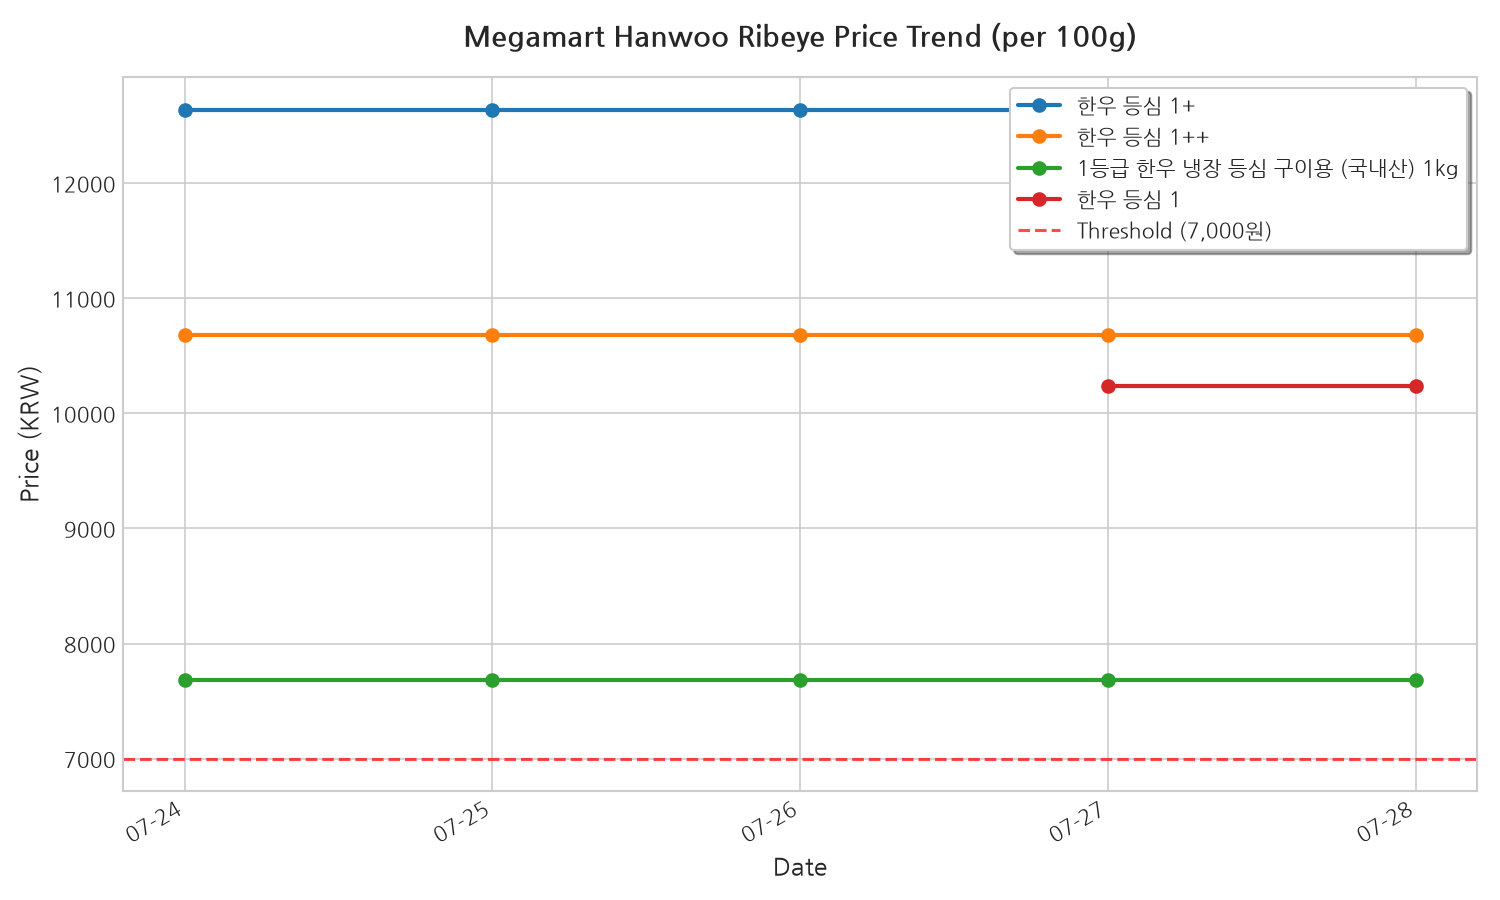
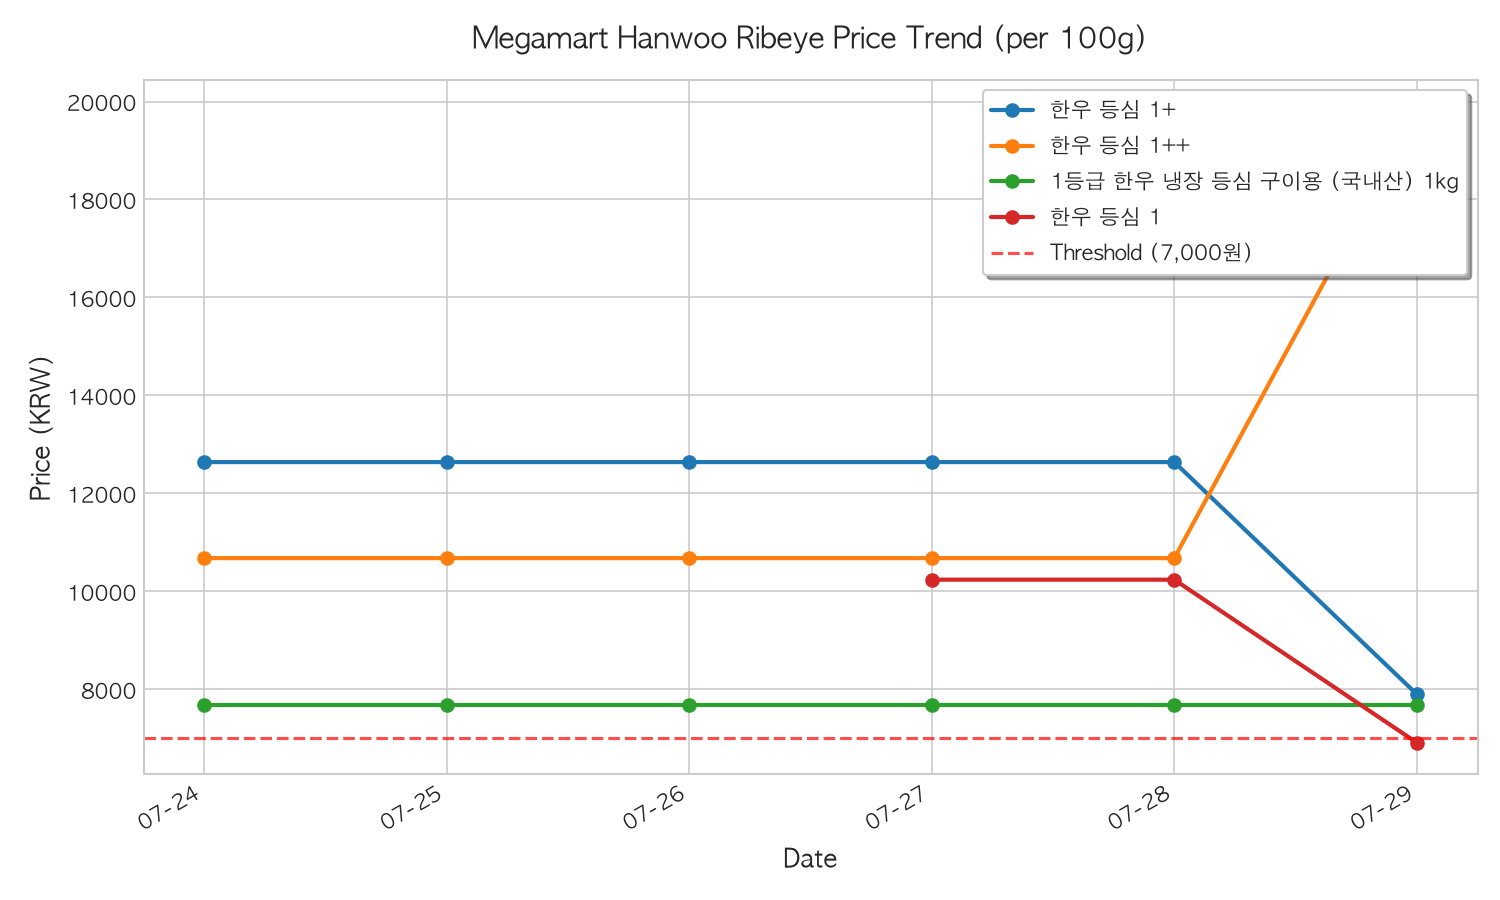
chore: update local price database and trend charts

diff --git a/dashboard.html b/dashboard.html
@@ -195,7 +195,7 @@
 
     <script>
         // Data injected by python script
-        const PRICE_DATA = [{"date": "2026-07-24", "product_name": "한우 등심 1+등급 구이용 (국내산) 100g", "price": 12640}, {"date": "2026-07-24", "product_name": "한우 등심 1++등급 구이용 (국내산) 100g", "price": 10680}, {"date": "2026-07-24", "product_name": "1등급 한우 냉장 등심 구이용 (국내산) 1kg", "price": 7680}, {"date": "2026-07-25", "product_name": "한우 등심 1+등급 구이용 (국내산) 100g", "price": 12640}, {"date": "2026-07-25", "product_name": "한우 등심 1++등급 구이용 (국내산) 100g", "price": 10680}, {"date": "2026-07-25", "product_name": "1등급 한우 냉장 등심 구이용 (국내산) 1kg", "price": 7680}, {"date": "2026-07-26", "product_name": "한우 등심 1+등급 구이용 (국내산) 100g", "price": 12640}, {"date": "2026-07-26", "product_name": "한우 등심 1++등급 구이용 (국내산) 100g", "price": 10680}, {"date": "2026-07-26", "product_name": "1등급 한우 냉장 등심 구이용 (국내산) 1kg", "price": 7680}, {"date": "2026-07-27", "product_name": "한우 등심 1+등급 구이용 (국내산) 100g", "price": 12640}, {"date": "2026-07-27", "product_name": "한우 등심 1++등급 구이용 (국내산) 100g", "price": 10680}, {"date": "2026-07-27", "product_name": "1등급 한우 냉장 등심 구이용 (국내산) 1kg", "price": 7680}, {"date": "2026-07-27", "product_name": "한우 등심 1등급 구이용 (국내산) 100g", "price": 10240}, {"date": "2026-07-28", "product_name": "한우 등심 1등급 구이용 (국내산) 100g", "price": 10240}, {"date": "2026-07-28", "product_name": "한우 등심 1+등급 구이용 (국내산) 100g", "price": 12640}, {"date": "2026-07-28", "product_name": "한우 등심 1++등급 구이용 (국내산) 100g", "price": 10680}, {"date": "2026-07-28", "product_name": "1등급 한우 냉장 등심 구이용 (국내산) 1kg", "price": 7680}];
+        const PRICE_DATA = [{"date": "2026-07-24", "product_name": "한우 등심 1+등급 구이용 (국내산) 100g", "price": 12640}, {"date": "2026-07-24", "product_name": "한우 등심 1++등급 구이용 (국내산) 100g", "price": 10680}, {"date": "2026-07-24", "product_name": "1등급 한우 냉장 등심 구이용 (국내산) 1kg", "price": 7680}, {"date": "2026-07-25", "product_name": "한우 등심 1+등급 구이용 (국내산) 100g", "price": 12640}, {"date": "2026-07-25", "product_name": "한우 등심 1++등급 구이용 (국내산) 100g", "price": 10680}, {"date": "2026-07-25", "product_name": "1등급 한우 냉장 등심 구이용 (국내산) 1kg", "price": 7680}, {"date": "2026-07-26", "product_name": "한우 등심 1+등급 구이용 (국내산) 100g", "price": 12640}, {"date": "2026-07-26", "product_name": "한우 등심 1++등급 구이용 (국내산) 100g", "price": 10680}, {"date": "2026-07-26", "product_name": "1등급 한우 냉장 등심 구이용 (국내산) 1kg", "price": 7680}, {"date": "2026-07-27", "product_name": "한우 등심 1+등급 구이용 (국내산) 100g", "price": 12640}, {"date": "2026-07-27", "product_name": "한우 등심 1++등급 구이용 (국내산) 100g", "price": 10680}, {"date": "2026-07-27", "product_name": "1등급 한우 냉장 등심 구이용 (국내산) 1kg", "price": 7680}, {"date": "2026-07-27", "product_name": "한우 등심 1등급 구이용 (국내산) 100g", "price": 10240}, {"date": "2026-07-28", "product_name": "한우 등심 1등급 구이용 (국내산) 100g", "price": 10240}, {"date": "2026-07-28", "product_name": "한우 등심 1+등급 구이용 (국내산) 100g", "price": 12640}, {"date": "2026-07-28", "product_name": "한우 등심 1++등급 구이용 (국내산) 100g", "price": 10680}, {"date": "2026-07-28", "product_name": "1등급 한우 냉장 등심 구이용 (국내산) 1kg", "price": 7680}, {"date": "2026-07-29", "product_name": "한우 등심 1등급 구이용 (국내산) 100g", "price": 6912}, {"date": "2026-07-29", "product_name": "한우 등심 1+등급 구이용 (국내산) 100g", "price": 7900}, {"date": "2026-07-29", "product_name": "한우 등심 1++등급 구이용 (국내산) 100g", "price": 19800}, {"date": "2026-07-29", "product_name": "1등급 한우 냉장 등심 구이용 (국내산) 1kg", "price": 7680}];
 
         // Group data by product
         const products = [...new Set(PRICE_DATA.map(item => item.product_name))];

diff --git a/README.md b/README.md
@@ -8,10 +8,10 @@
 * **설정 가격 기준**: 100g 당 **7,000원 이하**일 때 이메일 알림 발송
 
 ### 📌 최근 수집된 가격
-- **한우 등심 1등급 구이용 (국내산) 100g**: 100g당 10,240원 (현재 판매가: 10,240원/100g) (업데이트: 2026-07-28)
-- **한우 등심 1+등급 구이용 (국내산) 100g**: 100g당 12,640원 (현재 판매가: 12,640원/100g) (업데이트: 2026-07-28)
-- **한우 등심 1++등급 구이용 (국내산) 100g**: 100g당 10,680원 (현재 판매가: 10,680원/100g) (업데이트: 2026-07-28)
-- **1등급 한우 냉장 등심 구이용 (국내산) 1kg**: 100g당 7,680원 (현재 판매가: 76,800원/1000g) (업데이트: 2026-07-28)
+- **한우 등심 1등급 구이용 (국내산) 100g**: 100g당 6,912원 (현재 판매가: 6,912원/100g) (업데이트: 2026-07-29)
+- **한우 등심 1+등급 구이용 (국내산) 100g**: 100g당 7,900원 (현재 판매가: 7,900원/100g) (업데이트: 2026-07-29)
+- **한우 등심 1++등급 구이용 (국내산) 100g**: 100g당 19,800원 (현재 판매가: 19,800원/100g) (업데이트: 2026-07-29)
+- **1등급 한우 냉장 등심 구이용 (국내산) 1kg**: 100g당 7,680원 (현재 판매가: 76,800원/1000g) (업데이트: 2026-07-29)
 
 ### 📈 가격 추이 그래프
 ![한우 등심 가격 추이](history/price_trend.png)
